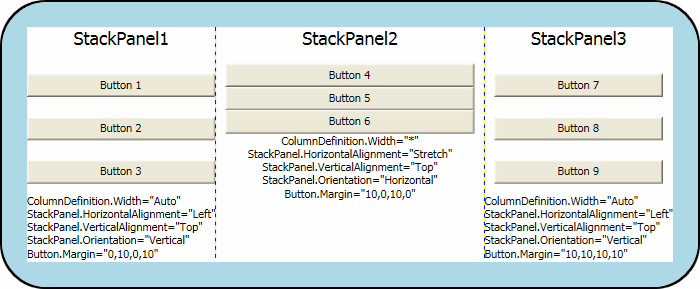
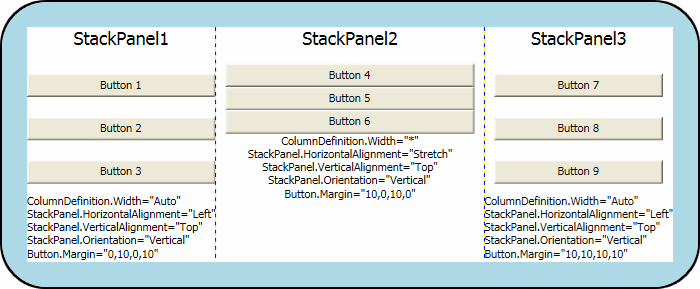
Update layout-margins-padding-aligment-graphic3 (#1743)
* Update layout-margins-padding-aligment-graphic3

Updated layout-margins-padding-aligment-graphic3.png to correct StackPanel2 saying that it's orientation is "Horizontal" when it should be "Vertical"

* Updated code samples to match screenshot/documentation.

Changed region(s): [[0.36, 0.5917, 0.63, 0.654]]

diff --git a/dotnet-desktop-guide/samples/snippets/xaml/VS_Snippets_Wpf/MarginPaddingAlignmentSample/XAML/default.xaml b/dotnet-desktop-guide/samples/snippets/xaml/VS_Snippets_Wpf/MarginPaddingAlignmentSample/XAML/default.xaml
@@ -36,7 +36,7 @@
         <TextBlock HorizontalAlignment="Center">ColumnDefinition.Width="*"</TextBlock>
         <TextBlock HorizontalAlignment="Center">StackPanel.HorizontalAlignment="Stretch"</TextBlock>
         <TextBlock HorizontalAlignment="Center">StackPanel.VerticalAlignment="Top"</TextBlock>
-        <TextBlock HorizontalAlignment="Center">StackPanel.Orientation="Horizontal"</TextBlock>
+        <TextBlock HorizontalAlignment="Center">StackPanel.Orientation="Vertical"</TextBlock>
         <TextBlock HorizontalAlignment="Center">Button.Margin="10,0,10,0"</TextBlock>
     </StackPanel>        
         

diff --git a/dotnet-desktop-guide/samples/snippets/csharp/VS_Snippets_Wpf/MarginPaddingAlignmentSample/CSharp/Margin_Padding_Alignment_Sample.cs b/dotnet-desktop-guide/samples/snippets/csharp/VS_Snippets_Wpf/MarginPaddingAlignmentSample/CSharp/Margin_Padding_Alignment_Sample.cs
@@ -123,7 +123,7 @@ namespace Margin_Padding_Alignment_Sample
             myTextBlock10.Text = @"StackPanel.VerticalAlignment = ""Top""";
             TextBlock myTextBlock11 = new TextBlock();
             myTextBlock11.HorizontalAlignment = HorizontalAlignment.Center;
-            myTextBlock11.Text = @"StackPanel.Orientation = ""Horizontal""";
+            myTextBlock11.Text = @"StackPanel.Orientation = ""Vertical""";
             TextBlock myTextBlock12 = new TextBlock();
             myTextBlock12.HorizontalAlignment = HorizontalAlignment.Center;
             myTextBlock12.Text = @"Button.Margin = ""10,0,10,0""";

diff --git a/dotnet-desktop-guide/samples/snippets/cpp/VS_Snippets_Wpf/MarginPaddingAlignmentSample/CPP/Margin_Padding_Alignment_Sample.cpp b/dotnet-desktop-guide/samples/snippets/cpp/VS_Snippets_Wpf/MarginPaddingAlignmentSample/CPP/Margin_Padding_Alignment_Sample.cpp
@@ -128,7 +128,7 @@ namespace Margin_Padding_Alignment_Sample {
          myTextBlock10->Text = "StackPanel.VerticalAlignment = \"Top\"";
          TextBlock^ myTextBlock11 = gcnew TextBlock();
          myTextBlock11->HorizontalAlignment = HorizontalAlignment::Center;
-         myTextBlock11->Text = "StackPanel.Orientation = \"Horizontal\"";
+         myTextBlock11->Text = "StackPanel.Orientation = \"Vertical\"";
          TextBlock^ myTextBlock12 = gcnew TextBlock();
          myTextBlock12->HorizontalAlignment = HorizontalAlignment::Center;
          myTextBlock12->Text = "Button.Margin = \"10,0,10,0\"";
